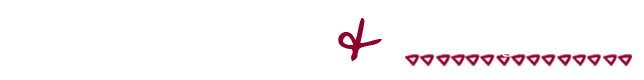
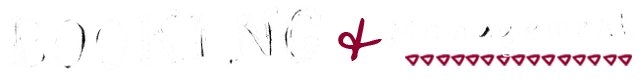
Add files via upload

diff --git a/booking_management.html b/booking_management.html
@@ -5,7 +5,7 @@
         -webkit-font-smoothing: antialiased;
 
       
-        background: url(http://elvientodenoviembre.com/lateralperfil2.jpg) no-repeat fixed center; 
+        background: url(http://elvientodenoviembre.com/fuegopeque.gif) no-repeat fixed center; 
         background-position: left; 
             -webkit-background-size: cover;
             -moz-background-size: cover;
@@ -114,9 +114,7 @@ body {
           <td><blockquote>
               <p align="center">&nbsp;</p>
               <p align="center"><img src="saccsacsc.png" width="644" height="80" /></p>
-              <p align="center"><img src="ccsacsadca.jpg" width="624" height="416" /></p>
-              <p align="center" class="Estilo3">&nbsp;</p>
-              <p align="center" class="Estilo3"><img src="fghthth.png" width="624" height="119" border="0" usemap="#Map" />
+              <p align="center"><img src="fghthth.png" width="624" height="119" border="0" usemap="#Map" />
                 <map name="Map" id="Map2">
                   <area shape="rect" coords="204,6177,490,6229" href="crudologia_nuevo_album.html" />
                   <area shape="rect" coords="154,2762,566,2815" href="https://open.spotify.com/track/0ZxY4XCFxgDrzy5khnaj7N?si=L_A7NjJ2R0CvqmsG-slD_g" />
@@ -127,8 +125,7 @@ body {
           </blockquote></td>
         </tr>
       </table>
-      <p class="Estilo136">&nbsp;</p>
-      <p class="Estilo136"><img src="logoelviento2020.png" width="391" height="47" /></p>
+      <p class="Estilo136"><span class="Estilo3">&copy; 2023 El Viento De Noviembre</span></p>
       <p class="Estilo136">&nbsp;</p></td>
   </tr>
 </table>
